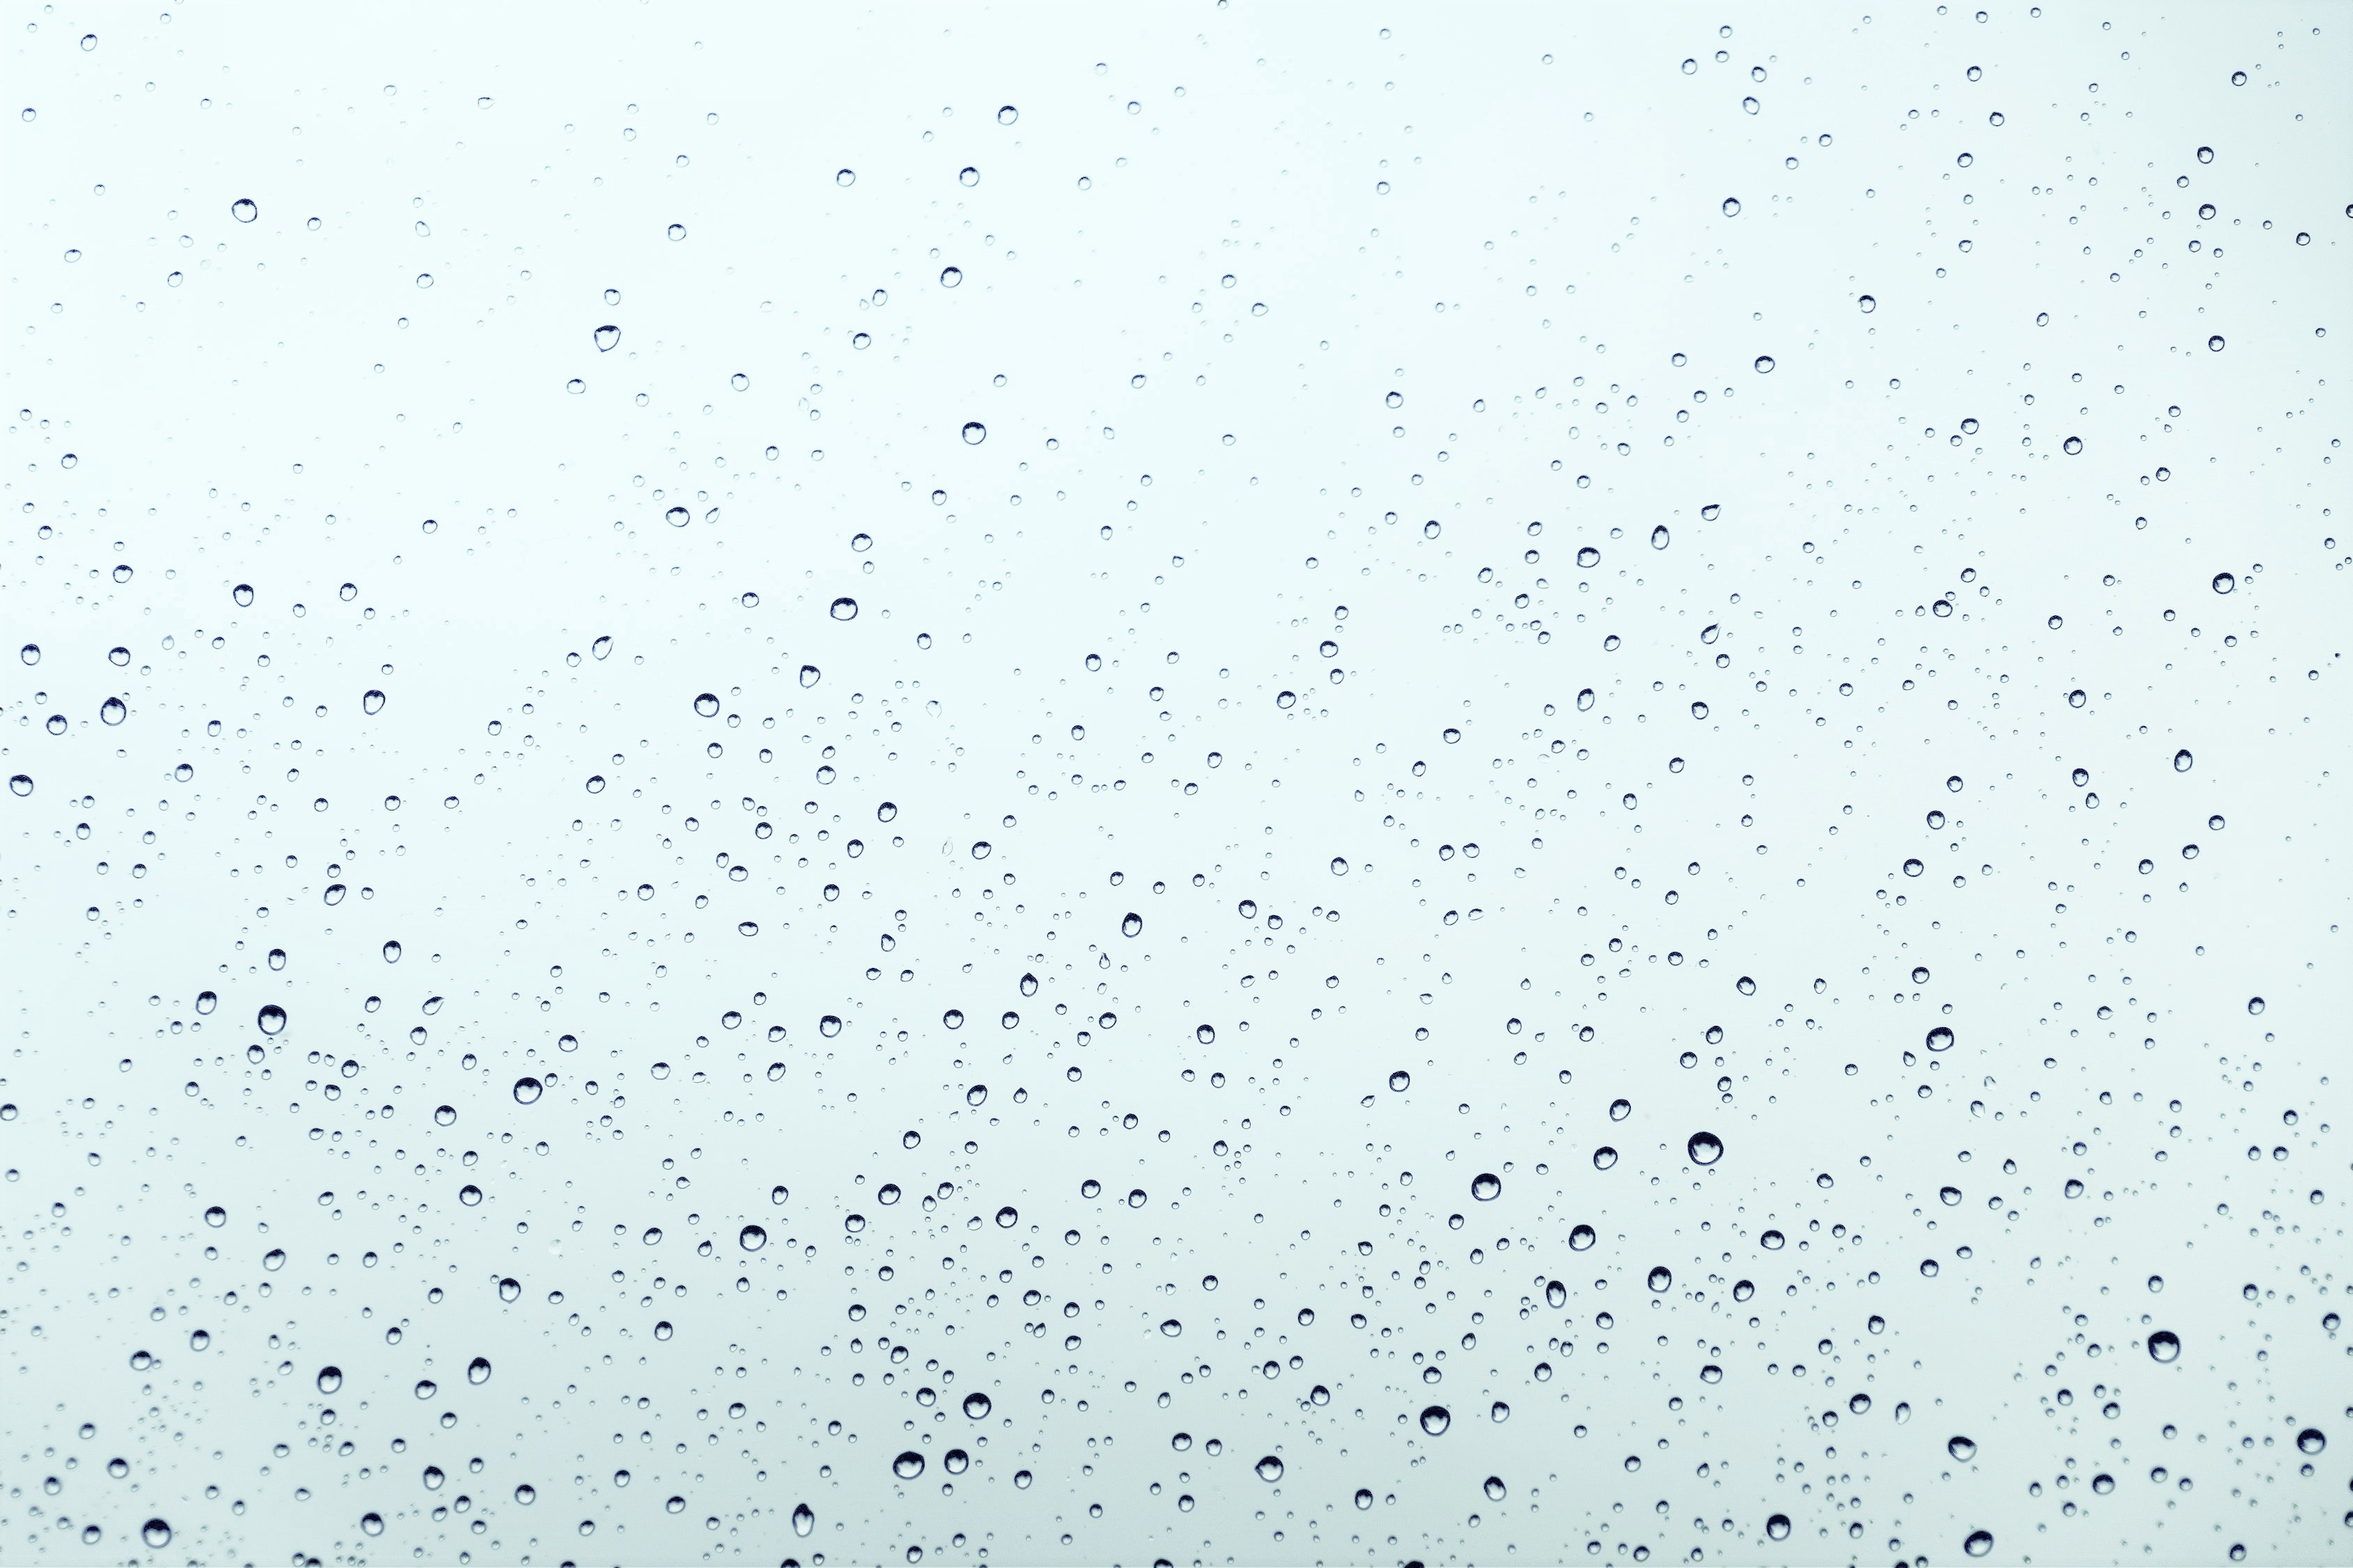
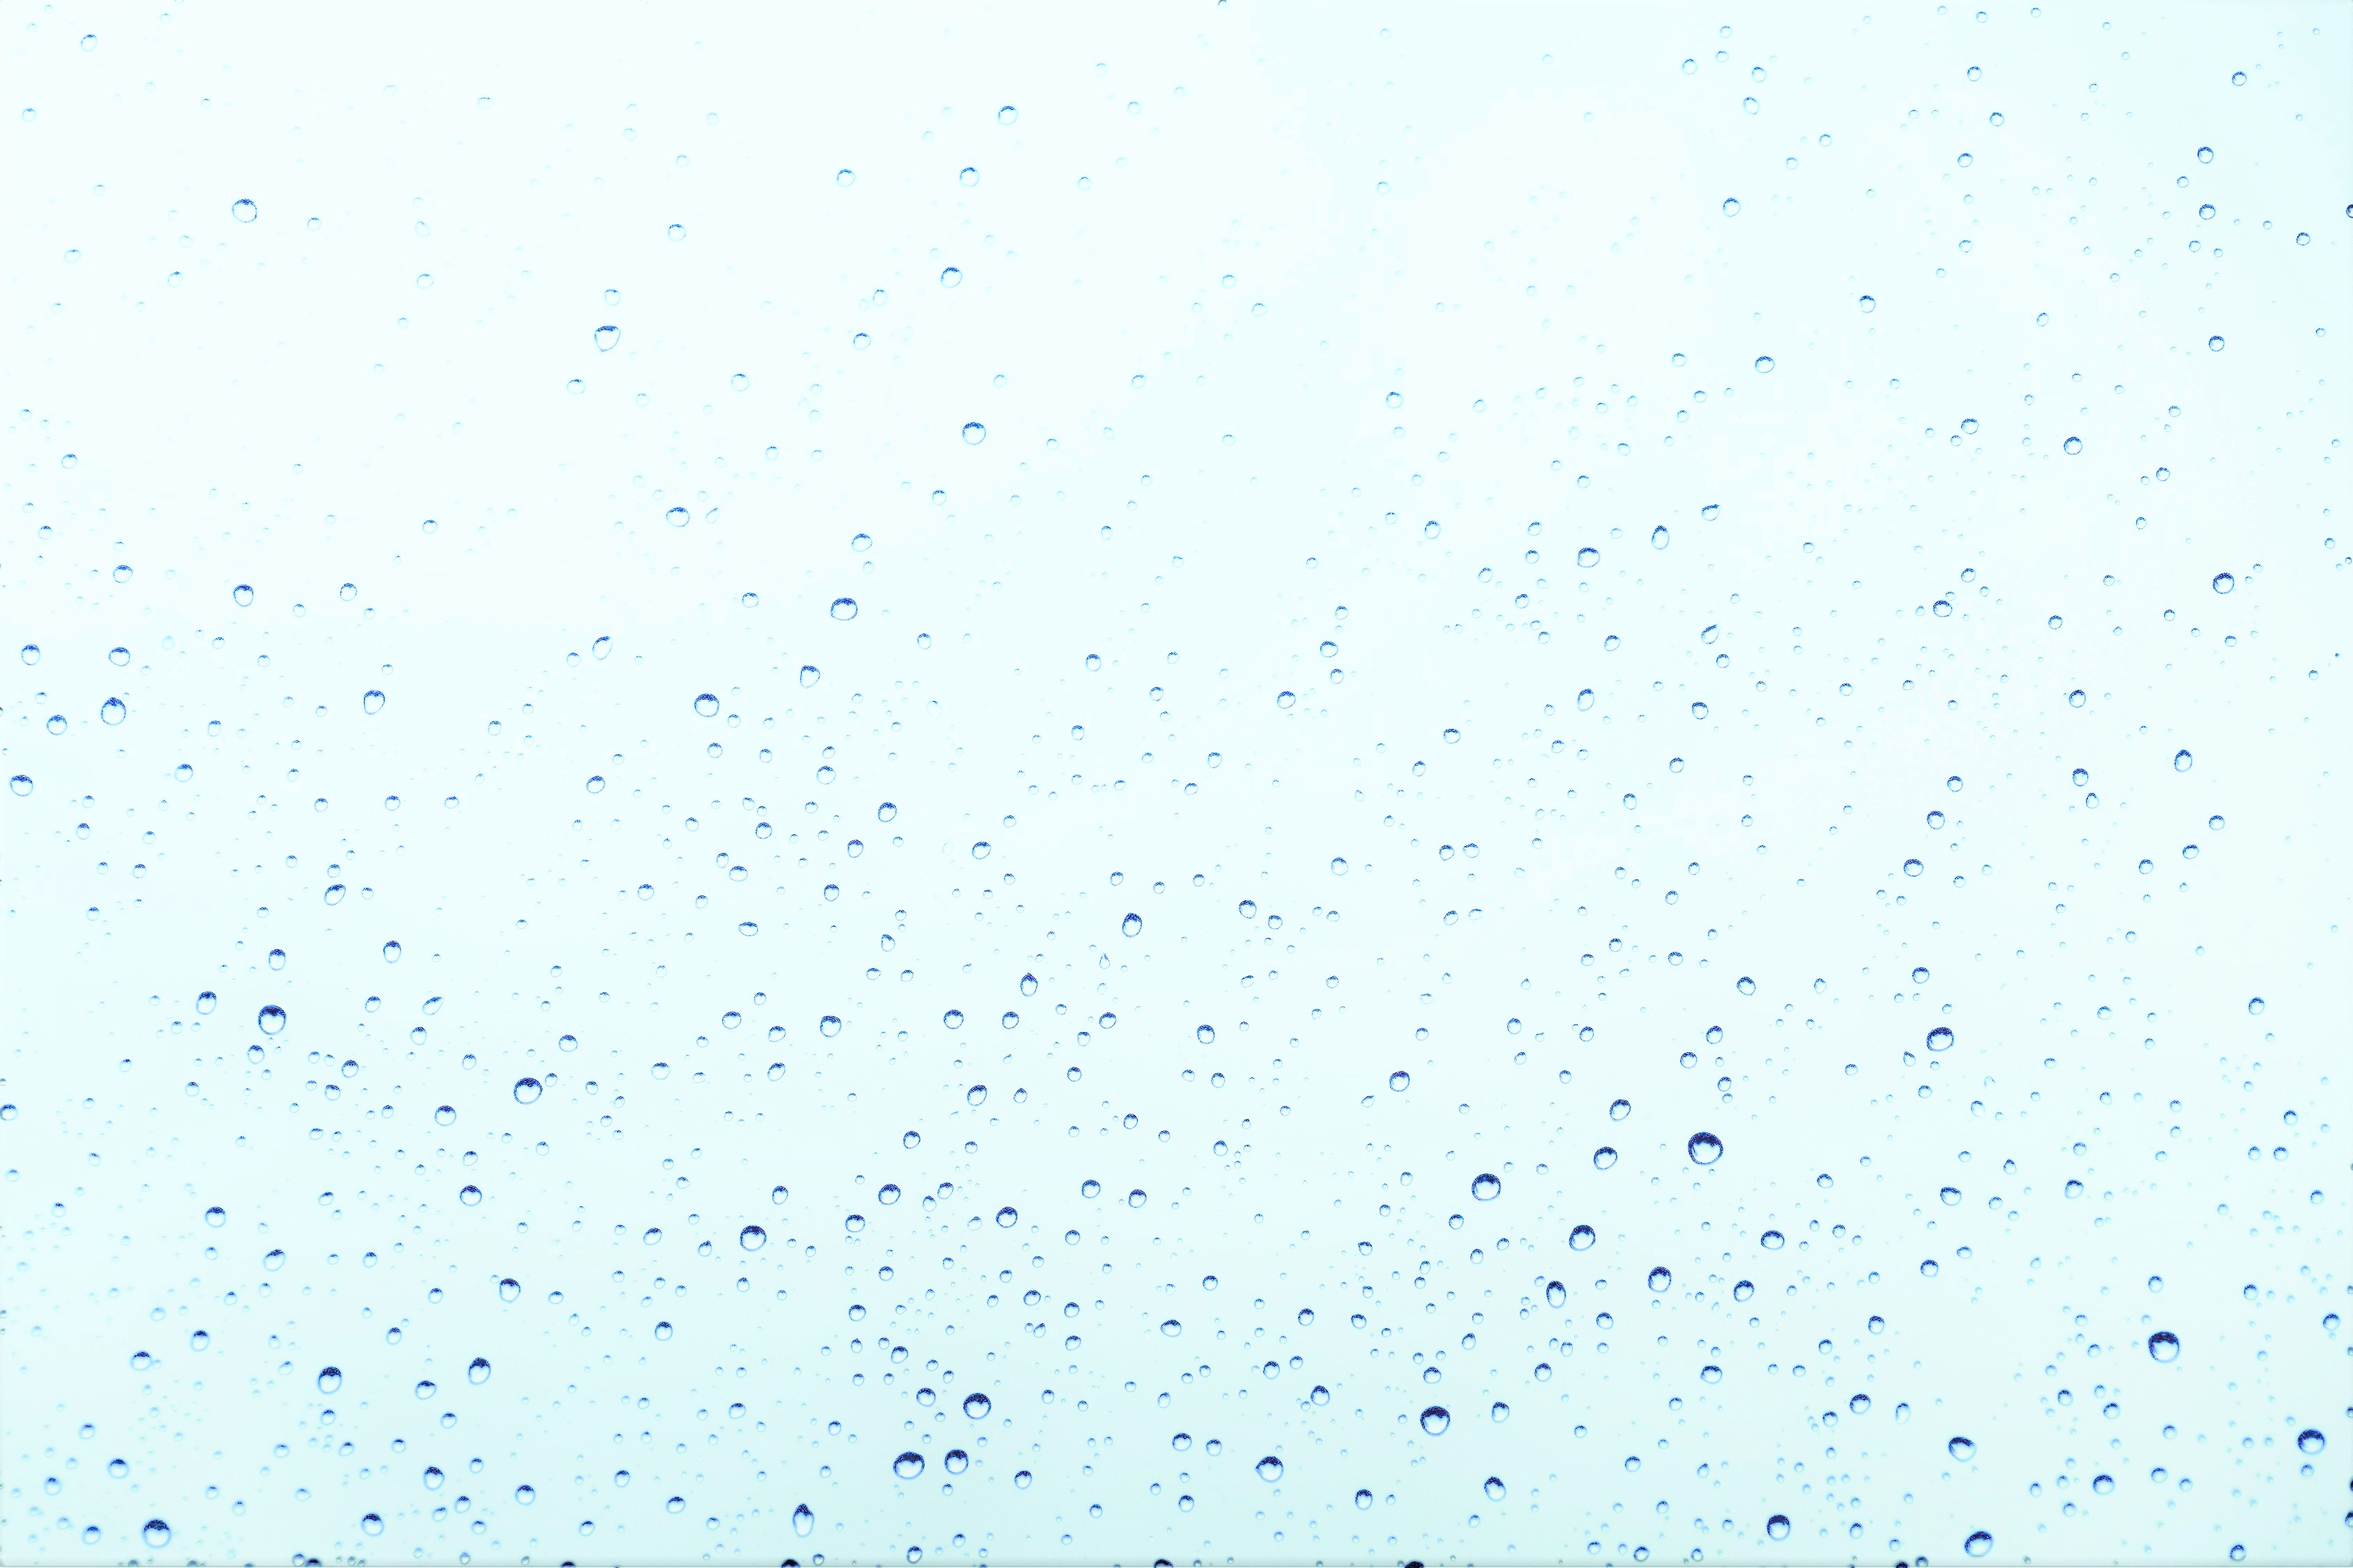
adjusted source photos and styling

diff --git a/src/styles.css b/src/styles.css
@@ -35,13 +35,6 @@ li.desc {
   text-transform: capitalize;
 }
 
-a {
-  color: black;
-  text-decoration: none;
-  font-weight: bold;
-  display: inline;
-}
-
 .container-md {
   max-width: 700px;
   margin: 30px auto;
@@ -114,10 +107,11 @@ a {
 
 #current-date {
   font-size: 20px;
+  line-height: normal;
 }
 
 #current-date small {
-  font-size: 10px;
+  font-size: 12px;
   display: block;
 }
 
@@ -138,7 +132,16 @@ a {
 }
 
 #temp-integer {
-  vertical-align: middle;
+  display: inline-flex;
+  margin-top: 0;
+  font-size: 50px;
+  vertical-align: top;
+}
+
+a#units-fahrenheit:hover,
+a#units-celsius:hover {
+  color: black;
+  vertical-align: top;
 }
 
 .forecast-today {
@@ -181,7 +184,7 @@ a {
 }
 
 #bg-image-clear-sky {
-  background-image: url("media/clear-blue-sky.jpeg");
+  background-image: url("media/clear-blue-sky.jpg");
   background-size: cover;
   background-position-y: 0;
   background-color: transparent;
@@ -218,12 +221,12 @@ a {
   padding: 0;
 }
 
-.btn,
 .btn-secondary {
   display: block;
   margin: 0 auto;
   border: 0.5px solid black;
   background-color: #2b4e8a;
+  transition: all;
 }
 
 .btn-secondary:hover {
@@ -235,7 +238,12 @@ a {
   font-weight: normal;
 }
 
-a,
-#github-link {
+a#github-link {
   color: white;
+  font-weight: bold;
+  text-decoration: none;
+}
+
+a#github-link:hover {
+  color: black;
 }

diff --git a/index.html b/index.html
@@ -13,7 +13,7 @@
   <script src="https://kit.fontawesome.com/6196e5e742.js" crossorigin="anonymous"></script>
   <script src="https://unpkg.com/axios/dist/axios.min.js"></script>
 </head>
-<body class=bg-body>
+<body>
   <div class="container-md">
     <div class="forecast-today" id="bg-image-partly-sunny">
       <section class="weatherSearch">
@@ -180,7 +180,7 @@
         </div>
       </section>
     <button class="btn btn-secondary">
-      <a id="#github-link" href="https://github.com/mhannacodes/Worldwide-weather-finder-app" target="_blank">Open source code <span>by Miranda Hanna</span></a> 
+      <a id="github-link" href="https://github.com/mhannacodes/Worldwide-weather-finder-app" target="_blank">Open source code <span>by Miranda Hanna</span></a> 
     </button>
     </div>
     <script src="src/script.js"></script>
